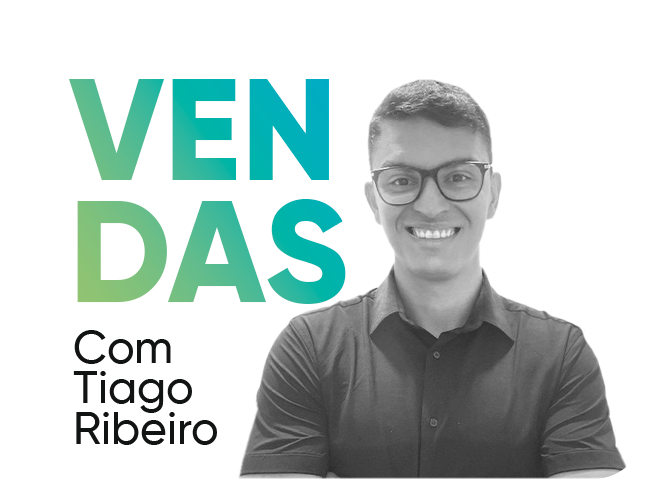
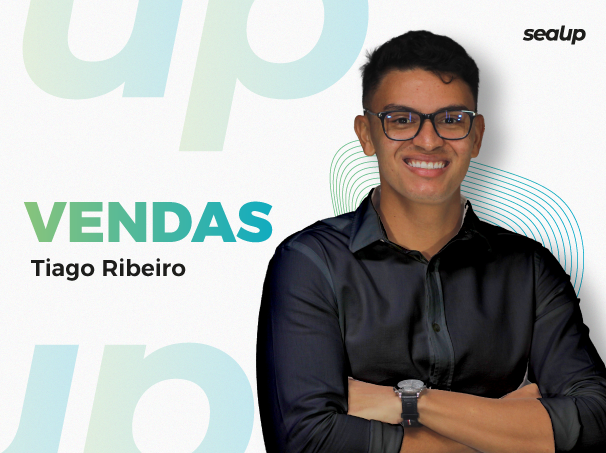
Implementação das redes sociais no rodapé

diff --git a/index.html b/index.html
@@ -70,7 +70,7 @@
                                 </ul>
                             </nav>
                             <div class="header-btn d-none d-xl-block">
-                                <a href="https://blog.seaup.academy/" class="btn-default btn-small btn-border d-none">Blog Seaup</a>
+                                <a href="https://blog.seaup.academy/" class="btn-default btn-small btn-border d-none">Blog SeaUp</a>
                                 <a class="btn-default btn-small d-none" href="https://www.comunidade.seaup.academy/">Acessar área do aluno</a>
                             </div>
 
@@ -136,7 +136,7 @@
                     <li><a href="#planos">Planos</a></li>
                 </ul>
                 <div class="header-bottom d-flex flex-column align-items-center">
-                    <a href="https://blog.seaup.academy/" class="btn-default btn-small btn-border d-none">Blog Seaup</a>
+                    <a href="https://blog.seaup.academy/" class="btn-default btn-small btn-border d-none">Blog SeaUp</a>
                                 <a class="btn-default btn-small mt-2 d-none" href="https://www.comunidade.seaup.academy/">Acessar área do aluno</a>
                 </div>
             </div>
@@ -179,7 +179,7 @@
                                 <img class="radius-small" src="assets/images/Capa-video1.webp" alt="Corporate Image">
                             </a>
                             <div class="video-icon">
-                                <a class="btn-default rounded-player popup-video" href="https://www.youtube.com/watch?v=hK1N_eG9krQ">
+                                <a class="btn-default rounded-player popup-video" href="https://www.youtube.com/watch?v=V0qlh2OhgnY">
                                     <span><i class="feather-play"></i></span>
                                 </a>
                             </div>
@@ -205,7 +205,7 @@
                     data-sal="slide-up" data-sal-duration="700" data-sal-delay="100">
                     <div class="col-lg-6">
                         <div class="section-title text-start rounded">
-                            <img src="assets/images/Vendas.webp" style="border-radius: 20px;" alt="">
+                            <img src="assets/images/Vendas_Tiago.webp" style="border-radius: 20px;" alt="">
                         </div>
                     </div>
                     <div class="col-lg-6">
@@ -317,7 +317,7 @@
                                 <img class="radius-small" src="assets/images/video2-capa.webp" alt="Corporate Image">
                             </a>
                             <div class="video-icon">
-                                <a class="btn-default rounded-player popup-video" href="https://www.youtube.com/watch?v=2A6RqHd3GJI">
+                                <a class="btn-default rounded-player popup-video" href="https://www.youtube.com/watch?v=4gi5tIQ_oZI">
                                     <span><i class="feather-play"></i></span>
                                 </a>
                             </div>
@@ -490,7 +490,7 @@
                             <h2 class=" "><span class="">Conheça os nossos planos</span></h2>
                             <p class="description b1">Nossa missão é entregar um conteúdo que de fato mude a trajetória
                                 do seu negócio,
-                                dentro do Seaup você irá conhecer o caminho do crescimento.</p>
+                                dentro do SeaUp você irá conhecer o caminho do crescimento.</p>
                         </div>
                     </div>
                 </div>
@@ -695,17 +695,17 @@
         <div class="copyright-area copyright-style-one" style="margin-top: 80px;">
             <div class="container">
                 <div class="row align-items-center">
-                    <div class="col-lg-2 col-md-5 col-sm-12 col-12 border-end">
-                        <div class="copyright-left">
+                    <div class="col-lg-2 col-md-5 col-sm-12 col-12">
+                        <div class="copyright-left d-flex">
                             <img src="assets/images/Seaup-05.webp" alt=""
-                                style="height: 70px!important; width: auto!important;;" height="50px" width="auto">
+                                style="height: 70px!important; width: auto!important; margin: auto;" height="50px" width="auto">
                         </div>
                     </div>
-                    <div class="col-lg-10 col-md-7 col-sm-12 col-12">
+                    <div class="col-lg-8 col-md-7 col-sm-12 col-12">
                         <div
-                            class="copyright-right container px-lg-5 flex-lg-row flex-column text-center text-lg-start align-items-center">
+                            class="copyright-right container justify-content-center text-center px-lg-5 flex-lg-row flex-column text-center align-items-center">
                             <p class="fw-light mb--0">Empresas parceiras:</p>
-                            <div class="row flex-lg-row flex-column">
+                            <div class="row flex-lg-row flex-column d-flex justify-content-center text-center">
                                 <img src="assets/images/b2bit.webp" alt="" class="img-fluid d-lg-none d-flex p-5">
                                 <img src="assets/images/b2bit.webp" alt="" class=" d-none d-lg-flex"
                                     style="width: auto; height: 40px;">
@@ -714,8 +714,8 @@
                                 <img src="assets/images/Impetus.webp" alt="" class=" d-none d-lg-flex"
                                     style="width: auto; height: 40px;">
 
-                                <img src="assets/images/logos-branco.webp" alt="" class="img-fluid d-lg-none d-flex p-5">
-                                <img src="assets/images/logos-branco.webp" alt="" class=" d-none d-lg-flex"
+                                <img src="assets/images/Seahub.webp" alt="" class="img-fluid d-lg-none d-flex p-5">
+                                <img src="assets/images/Seahub.webp" alt="" class=" d-none d-lg-flex"
                                     style="width: auto; height: 40px;">
 
                                 <!-- <img src="assets/images/b2bit.webp" alt="" class="img-fluid d-lg-none d-flex p-5">
@@ -727,6 +727,18 @@
                                 <img src="assets/images/b2bit.webp" alt="" class="img-fluid d-lg-none d-flex p-5">
                                 <img src="assets/images/b2bit.webp" alt="" class=" d-none d-lg-flex" style="width: auto; height: 40px;"> -->
                             </div>
+                        </div>
+                    </div>
+                    <div class="col-lg-2 col-md-5 col-sm-12 col-12">
+                        <div class="copyright-left d-flex flex-row justify-content-evenly">
+                            <a href="https://www.facebook.com/Seaup-Academy-101425466012507/"><img src="assets/images/facebook.webp" alt=""
+                                style="height: 30px!important; width: auto!important; margin: auto;"></a>
+                            <a href="https://www.instagram.com/seaupacademy/"><img src="assets/images/instagram.webp" alt=""
+                                style="height: 30px!important; width: auto!important; margin: auto;"></a>
+                                <a href="https://www.youtube.com/channel/UCWHu6HRNQQsbUOaLypnAcGQ"><img src="assets/images/youtube.webp" alt=""
+                                    style="height: 30px!important; width: auto!important; margin: auto;"></a>
+                                    <a href="https://www.linkedin.com/company/seaup-academy/"><img src="assets/images/linkedin.webp" alt=""
+                                        style="height: 30px!important; width: auto!important; margin: auto;"></a>
                         </div>
                     </div>
                 </div>
@@ -765,6 +777,6 @@
     <!-- Main JS -->
     <script src="assets/js/main.js"></script>
 </body>
-<script type="application/ld+json">{"@context":"https://schema.org","@type":"FAQPage","mainEntity":[{"@type":"Question","name":"Quais são os meios de pagamento aceitados pelo Seaup?","acceptedAnswer":{"@type":"Answer","text":"Aceitamos os cartões de crédito Visa, Master. Caso tenha dúvidas, basta entrar em contato por email no suporte@seahubcoworking.com.br."}},{"@type":"Question","name":"O que faço se precisar de suporte?","acceptedAnswer":{"@type":"Answer","text":"Nosso horário de atendimento é de segunda a sexta de 09h às 18h.\nMas caso queira deixar uma mensagem pra gente fora desse horário não tem problema nenhum. Basta enviar uma mensagem para o suporte@seahubcoworking.com.br que quando o nosso time estiver disponível iremos te responder!"}},{"@type":"Question","name":"Como funciona a emissão das notas fiscais?","acceptedAnswer":{"@type":"Answer","text":"Mensalmente as Notas fiscais  serão emitidas e enviadas para o e-mail cadastrado. \n\nCaso haja alguma divergência de informações, vamos entrar em contato para confirmação dos dados e logo em seguida encaminharemos a Nota Fiscal atualizada."}},{"@type":"Question","name":"Qual o processo caso eu queira cancelar minha assinatura?","acceptedAnswer":{"@type":"Answer","text":"Não se preocupe! Caso não goste do curso, você terá 7 dias para mandar um email para  suporte@seahubcoworking.com.br e pedir seu dinheiro de volta. \n\nVocê também pode fazer o cancelamento do seu plano diretamente na plataforma. Os clientes do plano mensal podem cancelar a qualquer momento e os clientes do plano anual devem esperar o fim do contrato."}},{"@type":"Question","name":"Posso assistir na hora que quiser?","acceptedAnswer":{"@type":"Answer","text":"Você pode adaptar o curso aos seus horários, como preferir. Pode assistir a hora que quiser, quando quiser e de onde quiser no período de acesso disponível. Pode organizar e assistir naquela noite livre que você tem na semana, ou durante o intervalo do almoço. "}},{"@type":"Question","name":"É necessário fazer provas?","acceptedAnswer":{"@type":"Answer","text":"Não. O nosso principal objetivo é que você aprenda, sem pressão e no seu ritmo."}},{"@type":"Question","name":"Os cursos possuem material complementar?","acceptedAnswer":{"@type":"Answer","text":"Sim, todos os cursos possuem materiais complementares para download preparados exclusivamente para você."}}]}</script><!--FAQPage Code Generated by https://saijogeorge.com/json-ld-schema-generator/faq/-->
+<script type="application/ld+json">{"@context":"https://schema.org","@type":"FAQPage","mainEntity":[{"@type":"Question","name":"Quais são os meios de pagamento aceitados pelo SeaUp?","acceptedAnswer":{"@type":"Answer","text":"Aceitamos os cartões de crédito Visa, Master. Caso tenha dúvidas, basta entrar em contato por email no suporte@seahubcoworking.com.br."}},{"@type":"Question","name":"O que faço se precisar de suporte?","acceptedAnswer":{"@type":"Answer","text":"Nosso horário de atendimento é de segunda a sexta de 09h às 18h.\nMas caso queira deixar uma mensagem pra gente fora desse horário não tem problema nenhum. Basta enviar uma mensagem para o suporte@seahubcoworking.com.br que quando o nosso time estiver disponível iremos te responder!"}},{"@type":"Question","name":"Como funciona a emissão das notas fiscais?","acceptedAnswer":{"@type":"Answer","text":"Mensalmente as Notas fiscais  serão emitidas e enviadas para o e-mail cadastrado. \n\nCaso haja alguma divergência de informações, vamos entrar em contato para confirmação dos dados e logo em seguida encaminharemos a Nota Fiscal atualizada."}},{"@type":"Question","name":"Qual o processo caso eu queira cancelar minha assinatura?","acceptedAnswer":{"@type":"Answer","text":"Não se preocupe! Caso não goste do curso, você terá 7 dias para mandar um email para  suporte@seahubcoworking.com.br e pedir seu dinheiro de volta. \n\nVocê também pode fazer o cancelamento do seu plano diretamente na plataforma. Os clientes do plano mensal podem cancelar a qualquer momento e os clientes do plano anual devem esperar o fim do contrato."}},{"@type":"Question","name":"Posso assistir na hora que quiser?","acceptedAnswer":{"@type":"Answer","text":"Você pode adaptar o curso aos seus horários, como preferir. Pode assistir a hora que quiser, quando quiser e de onde quiser no período de acesso disponível. Pode organizar e assistir naquela noite livre que você tem na semana, ou durante o intervalo do almoço. "}},{"@type":"Question","name":"É necessário fazer provas?","acceptedAnswer":{"@type":"Answer","text":"Não. O nosso principal objetivo é que você aprenda, sem pressão e no seu ritmo."}},{"@type":"Question","name":"Os cursos possuem material complementar?","acceptedAnswer":{"@type":"Answer","text":"Sim, todos os cursos possuem materiais complementares para download preparados exclusivamente para você."}}]}</script><!--FAQPage Code Generated by https://saijogeorge.com/json-ld-schema-generator/faq/-->
 <script src="https://cdn.logwork.com/widget/countdown.js"></script>
 </html>
